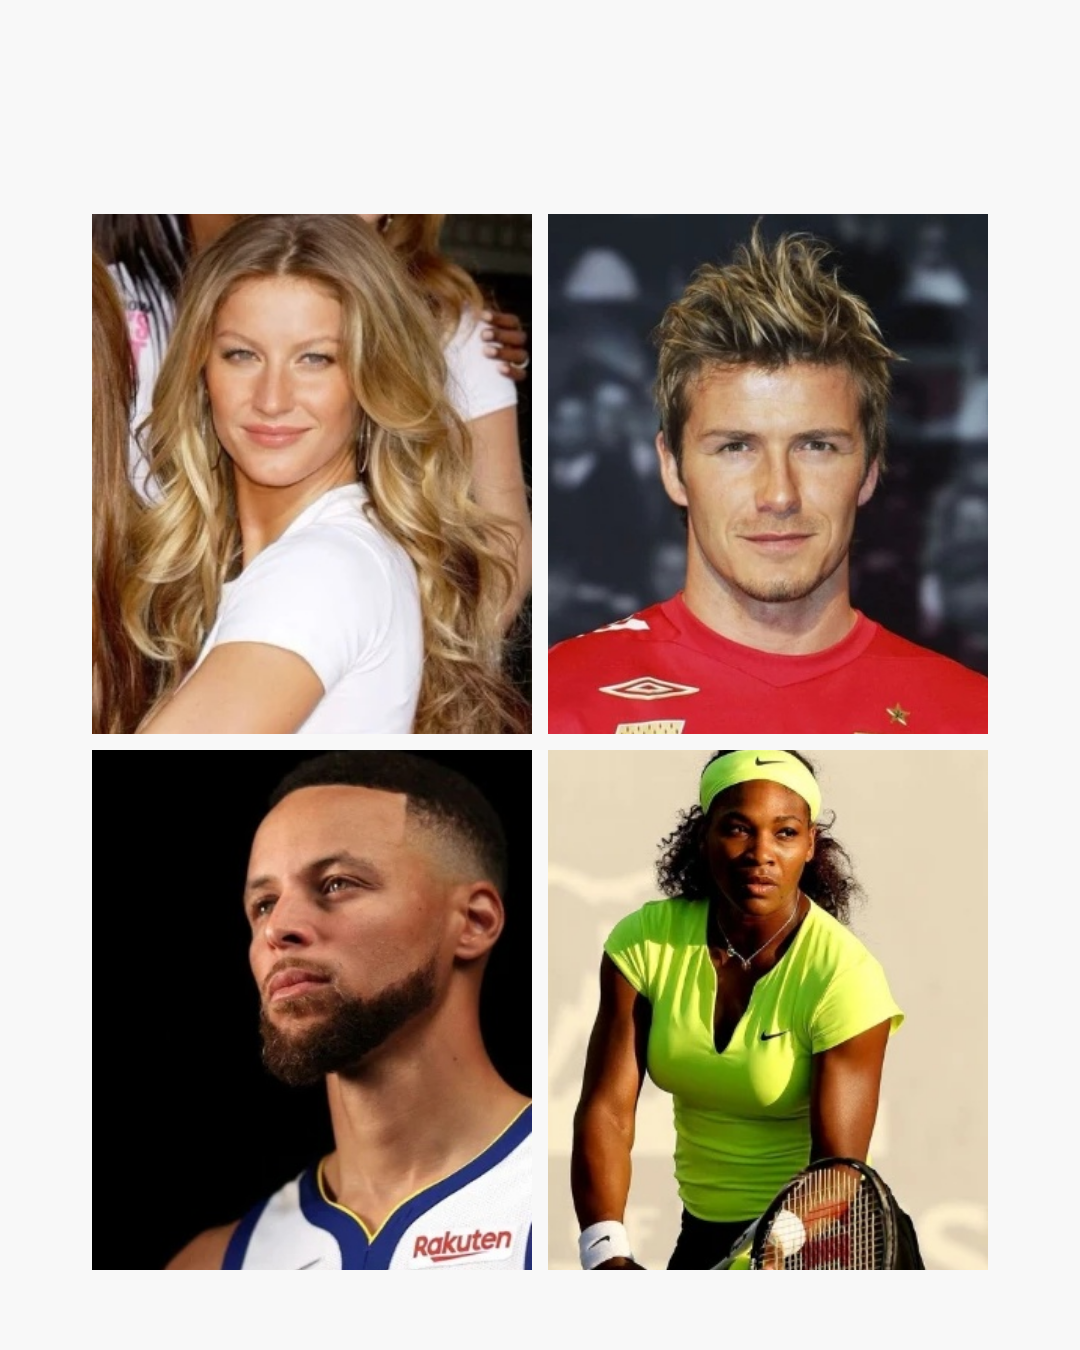
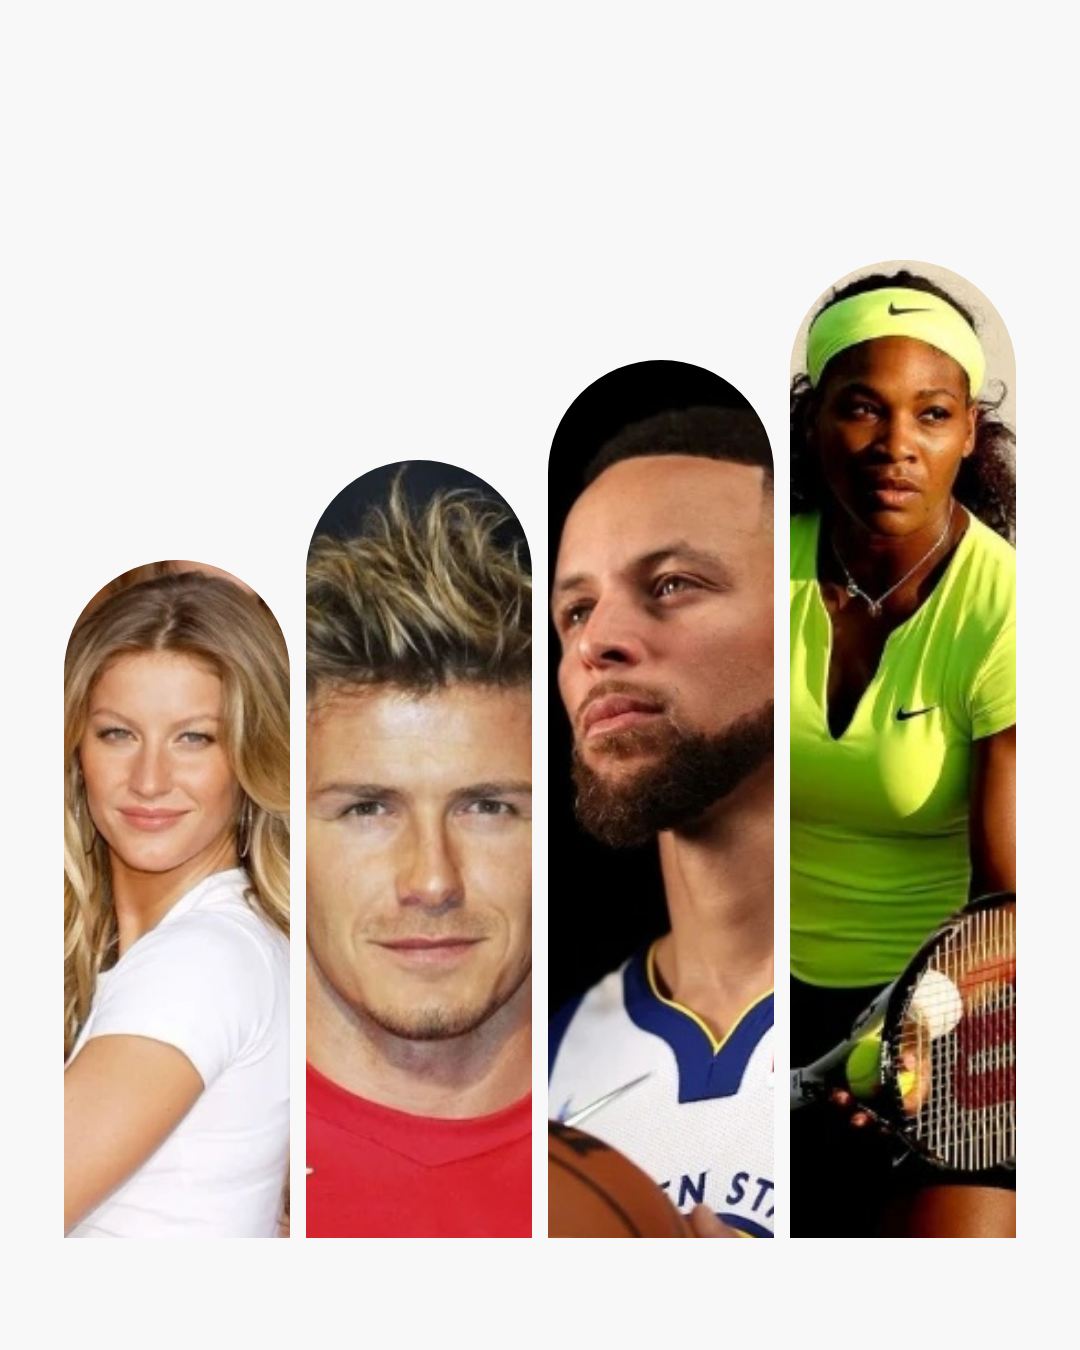
Redesign cover as rising arched portraits, with a black-and-white variant
Four arch-topped portraits step up from left to right for the aging-well
story, leaving the top left open for the masthead. CoverCollageMono renders
the same layout in warm black and white.

Claude-Session: https://claude.ai/code/session_01HibNmdeVVFZkkhm539poxe

diff --git a/src/posts/CoverCollage.tsx b/src/posts/CoverCollage.tsx
@@ -1,40 +1,52 @@
 import {AbsoluteFill, Img, staticFile} from 'remotion';
 
-// Minimalist magazine cover (1080×1350) with no type: open space at the top for a
-// masthead and a four-photo grid below. Text is added afterwards.
+// Magazine cover (1080×1350) for "What Gisele, David, Steph and Serena know about
+// aging well". No type: four arched portraits rise left to right like a staircase,
+// leaving the top-left open for the masthead and cover lines.
 export const COVER_W = 1080;
 export const COVER_H = 1350;
 
-const MARGIN_X = 92;
-const TOP = 214;
+const MARGIN_X = 64;
 const GUTTER = 16;
-const CELL_W = (COVER_W - MARGIN_X * 2 - GUTTER) / 2;
-const CELL_H = 520;
+const BOTTOM = 1238;
+const CELL_W = (COVER_W - MARGIN_X * 2 - GUTTER * 3) / 4;
 
-// objectPosition keeps each face in frame when the photo is cropped to the cell.
+// `top` sets the step; `x` keeps each face centred in the narrow arch.
 const photos = [
-  {file: '1.jpg', position: '50% 20%'},
-  {file: '2.jpg', position: '50% 30%'},
-  {file: '3.jpg', position: '50% 25%'},
-  {file: '4.jpg', position: '50% 15%'},
+  {file: '1.jpg', top: 560, x: '44%'},
+  {file: '2.jpg', top: 460, x: '51%'},
+  {file: '3.jpg', top: 360, x: '56%'},
+  {file: '4.jpg', top: 260, x: '49%'},
 ];
 
-export const CoverCollage: React.FC = () => (
+// `mono` renders the portraits in warm black and white for a more unified, editorial look.
+export const CoverCollage: React.FC<{mono?: boolean}> = ({mono = false}) => (
   <AbsoluteFill style={{background: '#F8F8F8'}}>
     {photos.map((p, i) => (
-      <Img
+      <div
         key={p.file}
-        src={staticFile(`posts/cover/${p.file}`)}
         style={{
           position: 'absolute',
-          left: MARGIN_X + (i % 2) * (CELL_W + GUTTER),
-          top: TOP + Math.floor(i / 2) * (CELL_H + GUTTER),
+          left: MARGIN_X + i * (CELL_W + GUTTER),
+          top: p.top,
           width: CELL_W,
-          height: CELL_H,
-          objectFit: 'cover',
-          objectPosition: p.position,
+          height: BOTTOM - p.top,
+          borderRadius: `${CELL_W / 2}px ${CELL_W / 2}px 0 0`,
+          overflow: 'hidden',
+          background: '#E9E6E1',
         }}
-      />
+      >
+        <Img
+          src={staticFile(`posts/cover/${p.file}`)}
+          style={{
+            width: '100%',
+            height: '100%',
+            objectFit: 'cover',
+            objectPosition: `${p.x} 0%`,
+            filter: mono ? 'grayscale(1) sepia(0.12) contrast(1.06)' : undefined,
+          }}
+        />
+      </div>
     ))}
   </AbsoluteFill>
 );

diff --git a/src/Root.tsx b/src/Root.tsx
@@ -27,6 +27,13 @@ export const RemotionRoot: React.FC = () => {
       />
       <Still id="InflammationPost" component={InflammationPost} width={POST_W} height={POST_H} />
       <Still id="CoverCollage" component={CoverCollage} width={COVER_W} height={COVER_H} />
+      <Still
+        id="CoverCollageMono"
+        component={CoverCollage}
+        defaultProps={{mono: true}}
+        width={COVER_W}
+        height={COVER_H}
+      />
     </>
   );
 };
